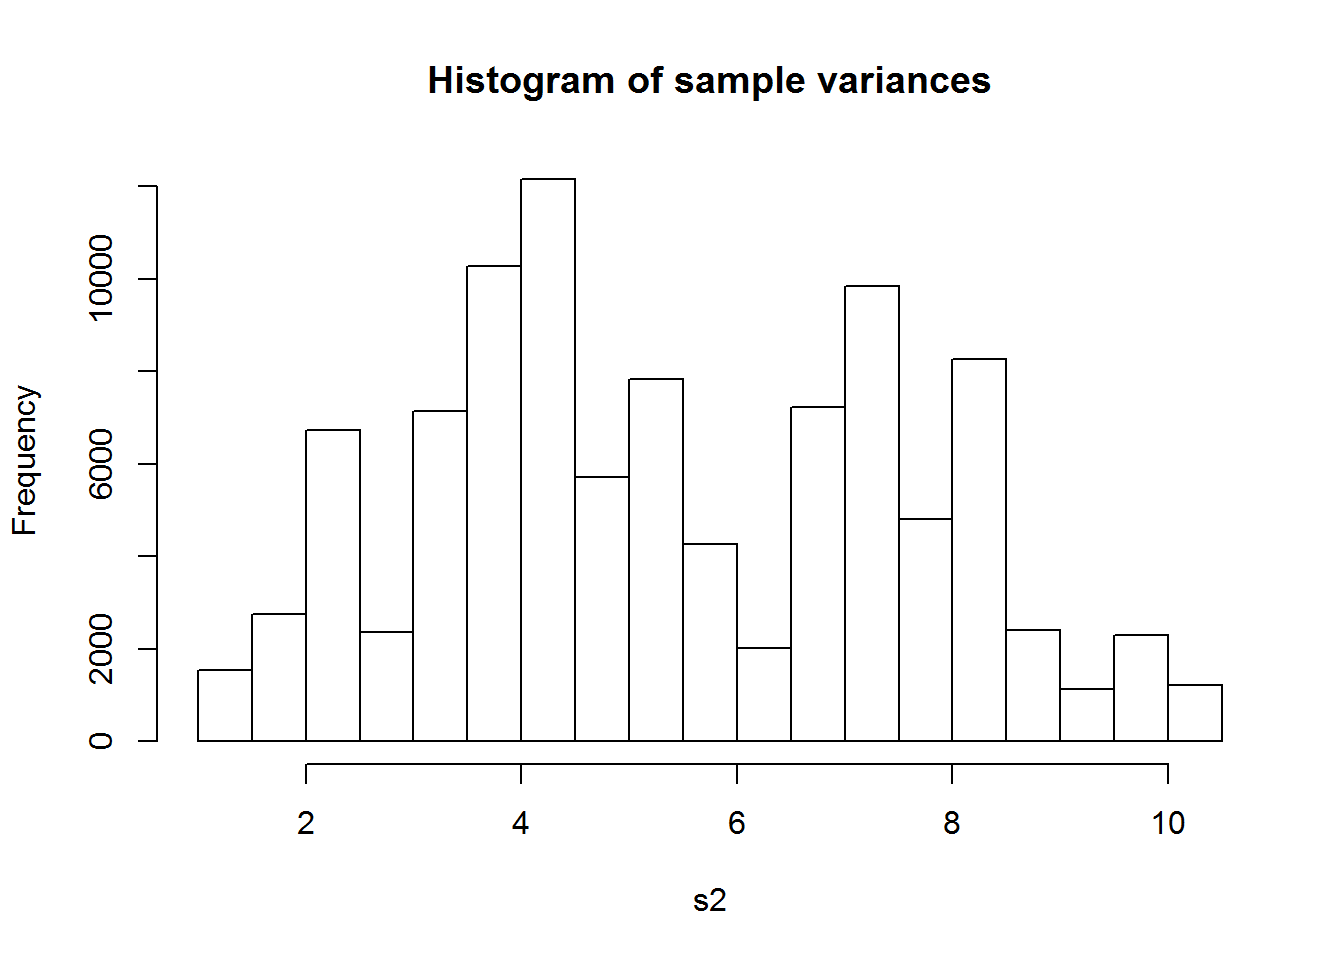
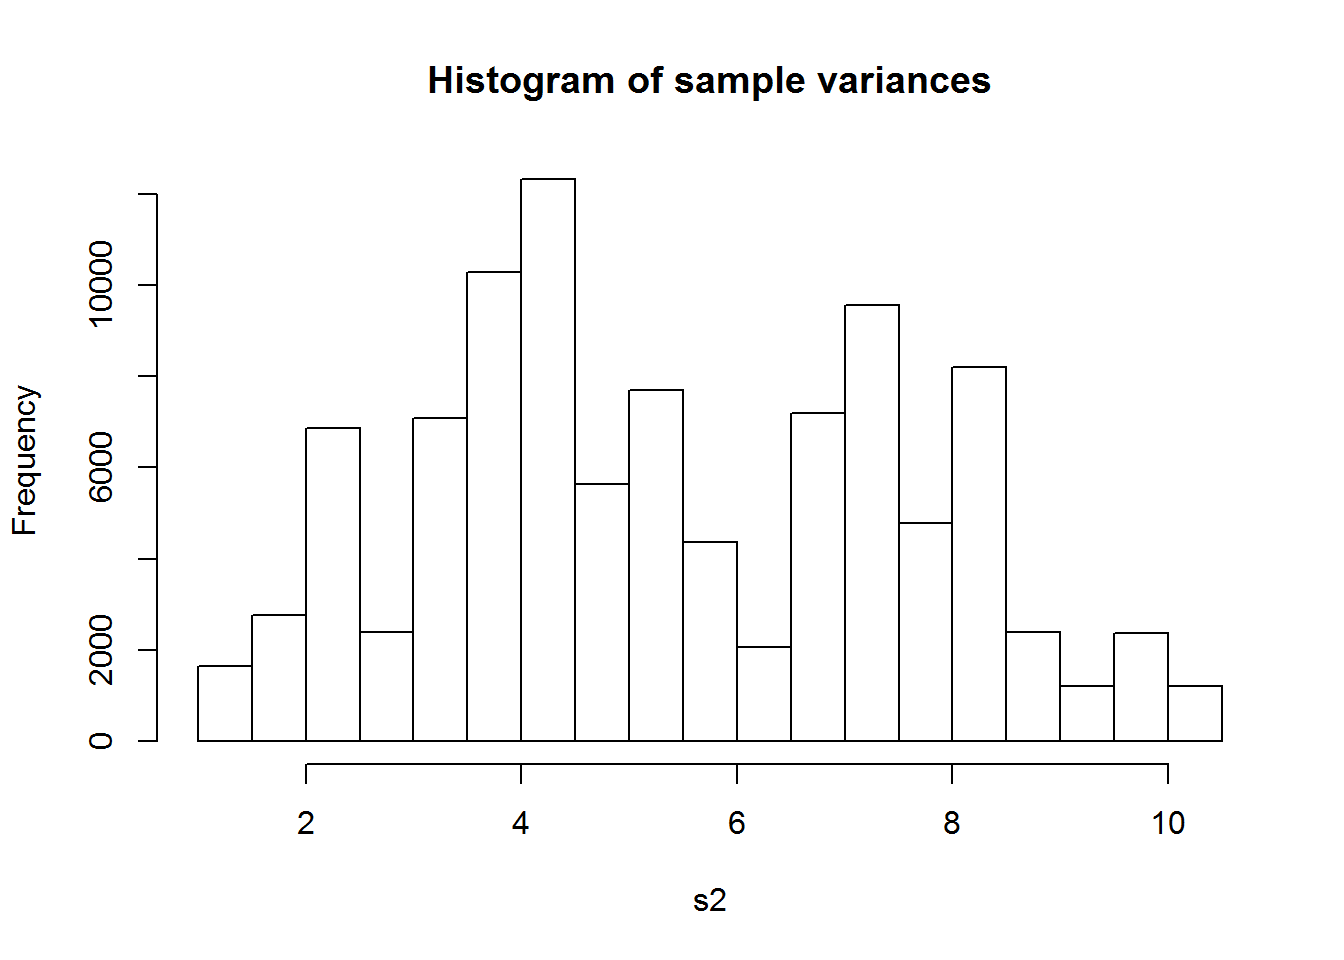
write more

diff --git a/docs/weighting-system.html b/docs/weighting-system.html
@@ -25,7 +25,7 @@
 <meta name="author" content="Lingyun Zhang">
 
 
-<meta name="date" content="2019-12-30">
+<meta name="date" content="2020-01-02">
 
   <meta name="viewport" content="width=device-width, initial-scale=1">
   <meta name="apple-mobile-web-app-capable" content="yes">
@@ -109,8 +109,9 @@ code > span.in { color: #60a0b0; font-weight: bold; font-style: italic; } /* Inf
 <li class="chapter" data-level="2.3" data-path="sampling-design.html"><a href="sampling-design.html#three-theoretical-principles"><i class="fa fa-check"></i><b>2.3</b> Three theoretical principles</a></li>
 </ul></li>
 <li class="chapter" data-level="3" data-path="weighting-system.html"><a href="weighting-system.html"><i class="fa fa-check"></i><b>3</b> Weighting system</a><ul>
-<li class="chapter" data-level="3.1" data-path="weighting-system.html"><a href="weighting-system.html#selection-weight"><i class="fa fa-check"></i><b>3.1</b> Selection weight</a></li>
-<li class="chapter" data-level="3.2" data-path="weighting-system.html"><a href="weighting-system.html#reweighting-or-weighting-adjustment"><i class="fa fa-check"></i><b>3.2</b> Reweighting (or weighting adjustment)</a></li>
+<li class="chapter" data-level="3.1" data-path="weighting-system.html"><a href="weighting-system.html#general-ideas-about-weighting"><i class="fa fa-check"></i><b>3.1</b> General ideas about weighting</a></li>
+<li class="chapter" data-level="3.2" data-path="weighting-system.html"><a href="weighting-system.html#the-three-stages-in-producing-final-weights"><i class="fa fa-check"></i><b>3.2</b> The three stages in producing final weights</a></li>
+<li class="chapter" data-level="3.3" data-path="weighting-system.html"><a href="weighting-system.html#calibration"><i class="fa fa-check"></i><b>3.3</b> Calibration</a></li>
 </ul></li>
 <li class="chapter" data-level="4" data-path="sampling-error.html"><a href="sampling-error.html"><i class="fa fa-check"></i><b>4</b> Sampling error</a></li>
 <li class="part"><span><b>Part II: Practice</b></span></li>
@@ -140,19 +141,69 @@ code > span.in { color: #60a0b0; font-weight: bold; font-style: italic; } /* Inf
             <section class="normal" id="section-">
 <div id="weighting-system" class="section level1">
 <h1><span class="header-section-number">3</span> Weighting system</h1>
-<p>The output files for weighting system should comprise the following</p>
-<ul>
-<li><strong>weighting_system_main,</strong> which is a table that contains columns <code>unit_ID</code>, <code>selection_wgt</code>, <code>adj_wgt_4_nonresponse</code> (optional), <code>final_wgt</code> and <code>jk_rep_wgt_1</code>, …, <code>jk_rep_wgt_100</code>.</li>
-<li><strong>benchmark tables</strong></li>
-</ul>
-<div id="selection-weight" class="section level2">
-<h2><span class="header-section-number">3.1</span> Selection weight</h2>
-<p>Selection weights are provided at the sampling design stage. The formula is: For unit <span class="math inline">\(i\)</span>, its <span class="math display">\[
-\text{SelectionWgt}=\frac{1}{\text{inclusion probability of unit}\ i}.
+<p>The main reference for this chapter is Haziza and Beaumont (2017).</p>
+<div id="general-ideas-about-weighting" class="section level2">
+<h2><span class="header-section-number">3.1</span> General ideas about weighting</h2>
+<p>Since a sample is a part/portion of a population, each item/individual in the sample represents itself plus others in the population; that is, a weight <span class="math inline">\(w_i\)</span> should be attached to the item/individual <span class="math inline">\(i\)</span>. It’s obvious that</p>
+<p><span class="math display">\[w_i&gt;0\]</span> or sometimes <span class="math display">\[
+w_i \ge 1.
 \]</span></p>
+<p>Weights are important because they are used in estimation of population parameters. Given the data, i.e. variable values and weights</p>
+<table>
+<thead>
+<tr class="header">
+<th align="center"><span class="math inline">\(y\)</span></th>
+<th align="center">weight</th>
+</tr>
+</thead>
+<tbody>
+<tr class="odd">
+<td align="center"><span class="math inline">\(y_1\)</span></td>
+<td align="center"><span class="math inline">\(w_1\)</span></td>
+</tr>
+<tr class="even">
+<td align="center"><span class="math inline">\(y_2\)</span></td>
+<td align="center"><span class="math inline">\(w_2\)</span></td>
+</tr>
+<tr class="odd">
+<td align="center"><span class="math inline">\(\vdots\)</span></td>
+<td align="center"><span class="math inline">\(\vdots\)</span></td>
+</tr>
+<tr class="even">
+<td align="center"><span class="math inline">\(y_n\)</span></td>
+<td align="center"><span class="math inline">\(w_n\)</span></td>
+</tr>
+</tbody>
+</table>
+we have estimates of the total and mean
+<span class="math display">\[\begin{align}
+\hat{t} &amp;= \sum_{i=1}^n w_i y_i,\\
+\hat{\bar{y}} &amp;= \frac{\sum_{i=1}^n w_i y_i}{\sum_{i=1}^n w_i}.
+\end{align}\]</span>
+<p>In the literature, the estimator <span class="math inline">\(\hat{t}\)</span> is called the Horvitz-Thompson (HT) estimator.</p>
 </div>
-<div id="reweighting-or-weighting-adjustment" class="section level2">
-<h2><span class="header-section-number">3.2</span> Reweighting (or weighting adjustment)</h2>
+<div id="the-three-stages-in-producing-final-weights" class="section level2">
+<h2><span class="header-section-number">3.2</span> The three stages in producing final weights</h2>
+<ul>
+<li><p>Stage 1: design weights <span class="math display">\[
+d_i = \frac{1}{\pi_i},
+\]</span> where <span class="math inline">\(\pi_i\)</span> is the selection/inclusion probability for item/individual <span class="math inline">\(i\)</span>.</p></li>
+<li><p>Stage 2: weights adjusted for non-response. We use <span class="math inline">\(\tilde{d}_i\)</span> to denote the adjusted weight for item/individual <span class="math inline">\(i\)</span>.</p></li>
+<li><p>Stage 3: final weights. We use <span class="math inline">\(w_i\)</span> to denote the final weight for item/individual <span class="math inline">\(i\)</span>.</p></li>
+</ul>
+</div>
+<div id="calibration" class="section level2">
+<h2><span class="header-section-number">3.3</span> Calibration</h2>
+<!-- The output files for weighting system should comprise the following -->
+<!-- - **weighting_system_main,** which is a table that contains -->
+<!-- columns `unit_ID`, `selection_wgt`, `adj_wgt_4_nonresponse` (optional), `final_wgt` and `jk_rep_wgt_1`, ..., `jk_rep_wgt_100`. -->
+<!-- - **benchmark tables**  -->
+<!-- ## Selection weight -->
+<!-- Selection weights are provided at the sampling design stage. The formula is: For unit $i$, its -->
+<!-- $$ -->
+<!-- \text{SelectionWgt}=\frac{1}{\text{inclusion probability of unit}\ i}. -->
+<!-- $$ -->
+<!-- ## Reweighting (or weighting adjustment) -->
 </div>
 </div>
             </section>

diff --git a/docs/toy-examples.html b/docs/toy-examples.html
@@ -25,7 +25,7 @@
 <meta name="author" content="Lingyun Zhang">
 
 
-<meta name="date" content="2019-12-30">
+<meta name="date" content="2020-01-02">
 
   <meta name="viewport" content="width=device-width, initial-scale=1">
   <meta name="apple-mobile-web-app-capable" content="yes">
@@ -109,8 +109,9 @@ code > span.in { color: #60a0b0; font-weight: bold; font-style: italic; } /* Inf
 <li class="chapter" data-level="2.3" data-path="sampling-design.html"><a href="sampling-design.html#three-theoretical-principles"><i class="fa fa-check"></i><b>2.3</b> Three theoretical principles</a></li>
 </ul></li>
 <li class="chapter" data-level="3" data-path="weighting-system.html"><a href="weighting-system.html"><i class="fa fa-check"></i><b>3</b> Weighting system</a><ul>
-<li class="chapter" data-level="3.1" data-path="weighting-system.html"><a href="weighting-system.html#selection-weight"><i class="fa fa-check"></i><b>3.1</b> Selection weight</a></li>
-<li class="chapter" data-level="3.2" data-path="weighting-system.html"><a href="weighting-system.html#reweighting-or-weighting-adjustment"><i class="fa fa-check"></i><b>3.2</b> Reweighting (or weighting adjustment)</a></li>
+<li class="chapter" data-level="3.1" data-path="weighting-system.html"><a href="weighting-system.html#general-ideas-about-weighting"><i class="fa fa-check"></i><b>3.1</b> General ideas about weighting</a></li>
+<li class="chapter" data-level="3.2" data-path="weighting-system.html"><a href="weighting-system.html#the-three-stages-in-producing-final-weights"><i class="fa fa-check"></i><b>3.2</b> The three stages in producing final weights</a></li>
+<li class="chapter" data-level="3.3" data-path="weighting-system.html"><a href="weighting-system.html#calibration"><i class="fa fa-check"></i><b>3.3</b> Calibration</a></li>
 </ul></li>
 <li class="chapter" data-level="4" data-path="sampling-error.html"><a href="sampling-error.html"><i class="fa fa-check"></i><b>4</b> Sampling error</a></li>
 <li class="part"><span><b>Part II: Practice</b></span></li>
@@ -219,13 +220,13 @@ the_sample_mean &lt;-<span class="st"> </span><span class="kw">apply</span>(my_s
 <span class="kw">hist</span>(the_sample_mean, <span class="dt">main =</span> <span class="st">&quot;Histogram of sample means&quot;</span>, <span class="dt">xlab =</span> <span class="st">&quot;y-bar&quot;</span>)</code></pre></div>
 <p><img src="_main_files/figure-html/message==FALSE-1.png" width="672" /></p>
 <div class="sourceCode"><pre class="sourceCode r"><code class="sourceCode r">(<span class="kw">mean</span>(the_sample_mean))</code></pre></div>
-<pre><code>## [1] 5.095624</code></pre>
+<pre><code>## [1] 5.098942</code></pre>
 <div class="sourceCode"><pre class="sourceCode r"><code class="sourceCode r">the_sample_var &lt;-<span class="st"> </span><span class="kw">apply</span>(my_sys_sample, <span class="dv">2</span>, var)
 
 <span class="kw">hist</span>(the_sample_var, <span class="dt">main =</span> <span class="st">&quot;Histogram of sample variances&quot;</span>, <span class="dt">xlab =</span> <span class="st">&quot;s2&quot;</span>)</code></pre></div>
 <p><img src="_main_files/figure-html/message==FALSE-2.png" width="672" /></p>
 <div class="sourceCode"><pre class="sourceCode r"><code class="sourceCode r">(<span class="kw">mean</span>(the_sample_var))</code></pre></div>
-<pre><code>## [1] 5.44145</code></pre>
+<pre><code>## [1] 5.42937</code></pre>
 </div>
             </section>
 

diff --git a/docs/references.html b/docs/references.html
@@ -25,7 +25,7 @@
 <meta name="author" content="Lingyun Zhang">
 
 
-<meta name="date" content="2019-12-30">
+<meta name="date" content="2020-01-02">
 
   <meta name="viewport" content="width=device-width, initial-scale=1">
   <meta name="apple-mobile-web-app-capable" content="yes">
@@ -109,8 +109,9 @@ code > span.in { color: #60a0b0; font-weight: bold; font-style: italic; } /* Inf
 <li class="chapter" data-level="2.3" data-path="sampling-design.html"><a href="sampling-design.html#three-theoretical-principles"><i class="fa fa-check"></i><b>2.3</b> Three theoretical principles</a></li>
 </ul></li>
 <li class="chapter" data-level="3" data-path="weighting-system.html"><a href="weighting-system.html"><i class="fa fa-check"></i><b>3</b> Weighting system</a><ul>
-<li class="chapter" data-level="3.1" data-path="weighting-system.html"><a href="weighting-system.html#selection-weight"><i class="fa fa-check"></i><b>3.1</b> Selection weight</a></li>
-<li class="chapter" data-level="3.2" data-path="weighting-system.html"><a href="weighting-system.html#reweighting-or-weighting-adjustment"><i class="fa fa-check"></i><b>3.2</b> Reweighting (or weighting adjustment)</a></li>
+<li class="chapter" data-level="3.1" data-path="weighting-system.html"><a href="weighting-system.html#general-ideas-about-weighting"><i class="fa fa-check"></i><b>3.1</b> General ideas about weighting</a></li>
+<li class="chapter" data-level="3.2" data-path="weighting-system.html"><a href="weighting-system.html#the-three-stages-in-producing-final-weights"><i class="fa fa-check"></i><b>3.2</b> The three stages in producing final weights</a></li>
+<li class="chapter" data-level="3.3" data-path="weighting-system.html"><a href="weighting-system.html#calibration"><i class="fa fa-check"></i><b>3.3</b> Calibration</a></li>
 </ul></li>
 <li class="chapter" data-level="4" data-path="sampling-error.html"><a href="sampling-error.html"><i class="fa fa-check"></i><b>4</b> Sampling error</a></li>
 <li class="part"><span><b>Part II: Practice</b></span></li>
@@ -140,6 +141,7 @@ code > span.in { color: #60a0b0; font-weight: bold; font-style: italic; } /* Inf
             <section class="normal" id="section-">
 <div id="references" class="section level1 unnumbered">
 <h1>References</h1>
+<p><strong>Haziza, D. and Beaumont, J.</strong> (2017). Construction of Weights in Surveys: A Review. <em>Statistical Science</em>, Vol. 32, pp. 206-226.</p>
 <p><strong>Tillé, Y. and Wilhelm, M.</strong> (2017). Probability Sampling Design: Principles for Choice of Design and Balancing. <em>Statistical Science</em>, Vol. 32, pp. 176-189.</p>
 
 </div>

diff --git a/docs/index.html b/docs/index.html
@@ -25,7 +25,7 @@
 <meta name="author" content="Lingyun Zhang">
 
 
-<meta name="date" content="2019-12-30">
+<meta name="date" content="2020-01-02">
 
   <meta name="viewport" content="width=device-width, initial-scale=1">
   <meta name="apple-mobile-web-app-capable" content="yes">
@@ -109,8 +109,9 @@ code > span.in { color: #60a0b0; font-weight: bold; font-style: italic; } /* Inf
 <li class="chapter" data-level="2.3" data-path="sampling-design.html"><a href="sampling-design.html#three-theoretical-principles"><i class="fa fa-check"></i><b>2.3</b> Three theoretical principles</a></li>
 </ul></li>
 <li class="chapter" data-level="3" data-path="weighting-system.html"><a href="weighting-system.html"><i class="fa fa-check"></i><b>3</b> Weighting system</a><ul>
-<li class="chapter" data-level="3.1" data-path="weighting-system.html"><a href="weighting-system.html#selection-weight"><i class="fa fa-check"></i><b>3.1</b> Selection weight</a></li>
-<li class="chapter" data-level="3.2" data-path="weighting-system.html"><a href="weighting-system.html#reweighting-or-weighting-adjustment"><i class="fa fa-check"></i><b>3.2</b> Reweighting (or weighting adjustment)</a></li>
+<li class="chapter" data-level="3.1" data-path="weighting-system.html"><a href="weighting-system.html#general-ideas-about-weighting"><i class="fa fa-check"></i><b>3.1</b> General ideas about weighting</a></li>
+<li class="chapter" data-level="3.2" data-path="weighting-system.html"><a href="weighting-system.html#the-three-stages-in-producing-final-weights"><i class="fa fa-check"></i><b>3.2</b> The three stages in producing final weights</a></li>
+<li class="chapter" data-level="3.3" data-path="weighting-system.html"><a href="weighting-system.html#calibration"><i class="fa fa-check"></i><b>3.3</b> Calibration</a></li>
 </ul></li>
 <li class="chapter" data-level="4" data-path="sampling-error.html"><a href="sampling-error.html"><i class="fa fa-check"></i><b>4</b> Sampling error</a></li>
 <li class="part"><span><b>Part II: Practice</b></span></li>
@@ -141,7 +142,7 @@ code > span.in { color: #60a0b0; font-weight: bold; font-style: italic; } /* Inf
 <div id="header">
 <h1 class="title">Understanding Survey Sampling</h1>
 <h4 class="author"><em>Lingyun Zhang</em></h4>
-<h4 class="date"><em>2019-12-30</em></h4>
+<h4 class="date"><em>2020-01-02</em></h4>
 </div>
 <div id="preface" class="section level1 unnumbered">
 <h1>Preface</h1>

diff --git a/docs/introduction.html b/docs/introduction.html
@@ -25,7 +25,7 @@
 <meta name="author" content="Lingyun Zhang">
 
 
-<meta name="date" content="2019-12-30">
+<meta name="date" content="2020-01-02">
 
   <meta name="viewport" content="width=device-width, initial-scale=1">
   <meta name="apple-mobile-web-app-capable" content="yes">
@@ -109,8 +109,9 @@ code > span.in { color: #60a0b0; font-weight: bold; font-style: italic; } /* Inf
 <li class="chapter" data-level="2.3" data-path="sampling-design.html"><a href="sampling-design.html#three-theoretical-principles"><i class="fa fa-check"></i><b>2.3</b> Three theoretical principles</a></li>
 </ul></li>
 <li class="chapter" data-level="3" data-path="weighting-system.html"><a href="weighting-system.html"><i class="fa fa-check"></i><b>3</b> Weighting system</a><ul>
-<li class="chapter" data-level="3.1" data-path="weighting-system.html"><a href="weighting-system.html#selection-weight"><i class="fa fa-check"></i><b>3.1</b> Selection weight</a></li>
-<li class="chapter" data-level="3.2" data-path="weighting-system.html"><a href="weighting-system.html#reweighting-or-weighting-adjustment"><i class="fa fa-check"></i><b>3.2</b> Reweighting (or weighting adjustment)</a></li>
+<li class="chapter" data-level="3.1" data-path="weighting-system.html"><a href="weighting-system.html#general-ideas-about-weighting"><i class="fa fa-check"></i><b>3.1</b> General ideas about weighting</a></li>
+<li class="chapter" data-level="3.2" data-path="weighting-system.html"><a href="weighting-system.html#the-three-stages-in-producing-final-weights"><i class="fa fa-check"></i><b>3.2</b> The three stages in producing final weights</a></li>
+<li class="chapter" data-level="3.3" data-path="weighting-system.html"><a href="weighting-system.html#calibration"><i class="fa fa-check"></i><b>3.3</b> Calibration</a></li>
 </ul></li>
 <li class="chapter" data-level="4" data-path="sampling-error.html"><a href="sampling-error.html"><i class="fa fa-check"></i><b>4</b> Sampling error</a></li>
 <li class="part"><span><b>Part II: Practice</b></span></li>

diff --git a/docs/preliminary-concepts-and-knowledge.html b/docs/preliminary-concepts-and-knowledge.html
@@ -25,7 +25,7 @@
 <meta name="author" content="Lingyun Zhang">
 
 
-<meta name="date" content="2019-12-30">
+<meta name="date" content="2020-01-02">
 
   <meta name="viewport" content="width=device-width, initial-scale=1">
   <meta name="apple-mobile-web-app-capable" content="yes">
@@ -109,8 +109,9 @@ code > span.in { color: #60a0b0; font-weight: bold; font-style: italic; } /* Inf
 <li class="chapter" data-level="2.3" data-path="sampling-design.html"><a href="sampling-design.html#three-theoretical-principles"><i class="fa fa-check"></i><b>2.3</b> Three theoretical principles</a></li>
 </ul></li>
 <li class="chapter" data-level="3" data-path="weighting-system.html"><a href="weighting-system.html"><i class="fa fa-check"></i><b>3</b> Weighting system</a><ul>
-<li class="chapter" data-level="3.1" data-path="weighting-system.html"><a href="weighting-system.html#selection-weight"><i class="fa fa-check"></i><b>3.1</b> Selection weight</a></li>
-<li class="chapter" data-level="3.2" data-path="weighting-system.html"><a href="weighting-system.html#reweighting-or-weighting-adjustment"><i class="fa fa-check"></i><b>3.2</b> Reweighting (or weighting adjustment)</a></li>
+<li class="chapter" data-level="3.1" data-path="weighting-system.html"><a href="weighting-system.html#general-ideas-about-weighting"><i class="fa fa-check"></i><b>3.1</b> General ideas about weighting</a></li>
+<li class="chapter" data-level="3.2" data-path="weighting-system.html"><a href="weighting-system.html#the-three-stages-in-producing-final-weights"><i class="fa fa-check"></i><b>3.2</b> The three stages in producing final weights</a></li>
+<li class="chapter" data-level="3.3" data-path="weighting-system.html"><a href="weighting-system.html#calibration"><i class="fa fa-check"></i><b>3.3</b> Calibration</a></li>
 </ul></li>
 <li class="chapter" data-level="4" data-path="sampling-error.html"><a href="sampling-error.html"><i class="fa fa-check"></i><b>4</b> Sampling error</a></li>
 <li class="part"><span><b>Part II: Practice</b></span></li>

diff --git a/docs/sampling-design.html b/docs/sampling-design.html
@@ -25,7 +25,7 @@
 <meta name="author" content="Lingyun Zhang">
 
 
-<meta name="date" content="2019-12-30">
+<meta name="date" content="2020-01-02">
 
   <meta name="viewport" content="width=device-width, initial-scale=1">
   <meta name="apple-mobile-web-app-capable" content="yes">
@@ -109,8 +109,9 @@ code > span.in { color: #60a0b0; font-weight: bold; font-style: italic; } /* Inf
 <li class="chapter" data-level="2.3" data-path="sampling-design.html"><a href="sampling-design.html#three-theoretical-principles"><i class="fa fa-check"></i><b>2.3</b> Three theoretical principles</a></li>
 </ul></li>
 <li class="chapter" data-level="3" data-path="weighting-system.html"><a href="weighting-system.html"><i class="fa fa-check"></i><b>3</b> Weighting system</a><ul>
-<li class="chapter" data-level="3.1" data-path="weighting-system.html"><a href="weighting-system.html#selection-weight"><i class="fa fa-check"></i><b>3.1</b> Selection weight</a></li>
-<li class="chapter" data-level="3.2" data-path="weighting-system.html"><a href="weighting-system.html#reweighting-or-weighting-adjustment"><i class="fa fa-check"></i><b>3.2</b> Reweighting (or weighting adjustment)</a></li>
+<li class="chapter" data-level="3.1" data-path="weighting-system.html"><a href="weighting-system.html#general-ideas-about-weighting"><i class="fa fa-check"></i><b>3.1</b> General ideas about weighting</a></li>
+<li class="chapter" data-level="3.2" data-path="weighting-system.html"><a href="weighting-system.html#the-three-stages-in-producing-final-weights"><i class="fa fa-check"></i><b>3.2</b> The three stages in producing final weights</a></li>
+<li class="chapter" data-level="3.3" data-path="weighting-system.html"><a href="weighting-system.html#calibration"><i class="fa fa-check"></i><b>3.3</b> Calibration</a></li>
 </ul></li>
 <li class="chapter" data-level="4" data-path="sampling-error.html"><a href="sampling-error.html"><i class="fa fa-check"></i><b>4</b> Sampling error</a></li>
 <li class="part"><span><b>Part II: Practice</b></span></li>

diff --git a/docs/sampling-error.html b/docs/sampling-error.html
@@ -25,7 +25,7 @@
 <meta name="author" content="Lingyun Zhang">
 
 
-<meta name="date" content="2019-12-30">
+<meta name="date" content="2020-01-02">
 
   <meta name="viewport" content="width=device-width, initial-scale=1">
   <meta name="apple-mobile-web-app-capable" content="yes">
@@ -109,8 +109,9 @@ code > span.in { color: #60a0b0; font-weight: bold; font-style: italic; } /* Inf
 <li class="chapter" data-level="2.3" data-path="sampling-design.html"><a href="sampling-design.html#three-theoretical-principles"><i class="fa fa-check"></i><b>2.3</b> Three theoretical principles</a></li>
 </ul></li>
 <li class="chapter" data-level="3" data-path="weighting-system.html"><a href="weighting-system.html"><i class="fa fa-check"></i><b>3</b> Weighting system</a><ul>
-<li class="chapter" data-level="3.1" data-path="weighting-system.html"><a href="weighting-system.html#selection-weight"><i class="fa fa-check"></i><b>3.1</b> Selection weight</a></li>
-<li class="chapter" data-level="3.2" data-path="weighting-system.html"><a href="weighting-system.html#reweighting-or-weighting-adjustment"><i class="fa fa-check"></i><b>3.2</b> Reweighting (or weighting adjustment)</a></li>
+<li class="chapter" data-level="3.1" data-path="weighting-system.html"><a href="weighting-system.html#general-ideas-about-weighting"><i class="fa fa-check"></i><b>3.1</b> General ideas about weighting</a></li>
+<li class="chapter" data-level="3.2" data-path="weighting-system.html"><a href="weighting-system.html#the-three-stages-in-producing-final-weights"><i class="fa fa-check"></i><b>3.2</b> The three stages in producing final weights</a></li>
+<li class="chapter" data-level="3.3" data-path="weighting-system.html"><a href="weighting-system.html#calibration"><i class="fa fa-check"></i><b>3.3</b> Calibration</a></li>
 </ul></li>
 <li class="chapter" data-level="4" data-path="sampling-error.html"><a href="sampling-error.html"><i class="fa fa-check"></i><b>4</b> Sampling error</a></li>
 <li class="part"><span><b>Part II: Practice</b></span></li>

diff --git a/docs/software.html b/docs/software.html
@@ -25,7 +25,7 @@
 <meta name="author" content="Lingyun Zhang">
 
 
-<meta name="date" content="2019-12-30">
+<meta name="date" content="2020-01-02">
 
   <meta name="viewport" content="width=device-width, initial-scale=1">
   <meta name="apple-mobile-web-app-capable" content="yes">
@@ -109,8 +109,9 @@ code > span.in { color: #60a0b0; font-weight: bold; font-style: italic; } /* Inf
 <li class="chapter" data-level="2.3" data-path="sampling-design.html"><a href="sampling-design.html#three-theoretical-principles"><i class="fa fa-check"></i><b>2.3</b> Three theoretical principles</a></li>
 </ul></li>
 <li class="chapter" data-level="3" data-path="weighting-system.html"><a href="weighting-system.html"><i class="fa fa-check"></i><b>3</b> Weighting system</a><ul>
-<li class="chapter" data-level="3.1" data-path="weighting-system.html"><a href="weighting-system.html#selection-weight"><i class="fa fa-check"></i><b>3.1</b> Selection weight</a></li>
-<li class="chapter" data-level="3.2" data-path="weighting-system.html"><a href="weighting-system.html#reweighting-or-weighting-adjustment"><i class="fa fa-check"></i><b>3.2</b> Reweighting (or weighting adjustment)</a></li>
+<li class="chapter" data-level="3.1" data-path="weighting-system.html"><a href="weighting-system.html#general-ideas-about-weighting"><i class="fa fa-check"></i><b>3.1</b> General ideas about weighting</a></li>
+<li class="chapter" data-level="3.2" data-path="weighting-system.html"><a href="weighting-system.html#the-three-stages-in-producing-final-weights"><i class="fa fa-check"></i><b>3.2</b> The three stages in producing final weights</a></li>
+<li class="chapter" data-level="3.3" data-path="weighting-system.html"><a href="weighting-system.html#calibration"><i class="fa fa-check"></i><b>3.3</b> Calibration</a></li>
 </ul></li>
 <li class="chapter" data-level="4" data-path="sampling-error.html"><a href="sampling-error.html"><i class="fa fa-check"></i><b>4</b> Sampling error</a></li>
 <li class="part"><span><b>Part II: Practice</b></span></li>
